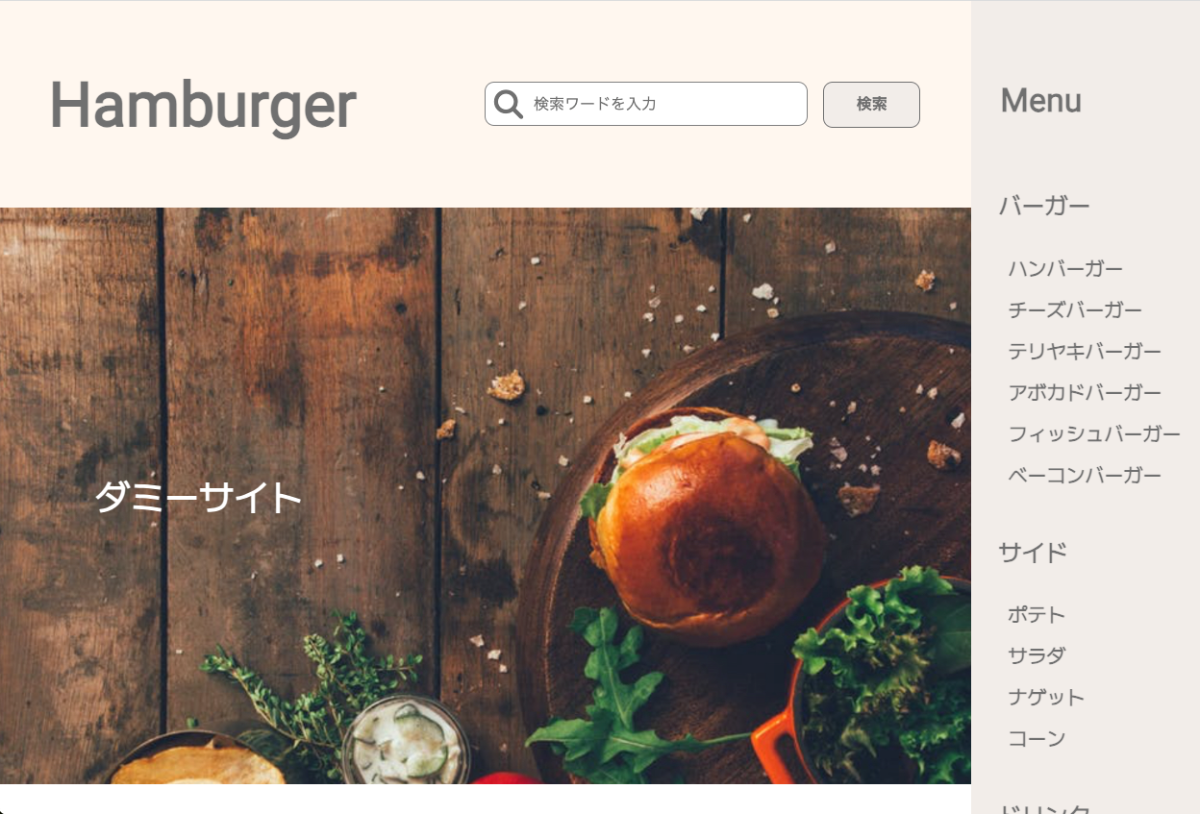
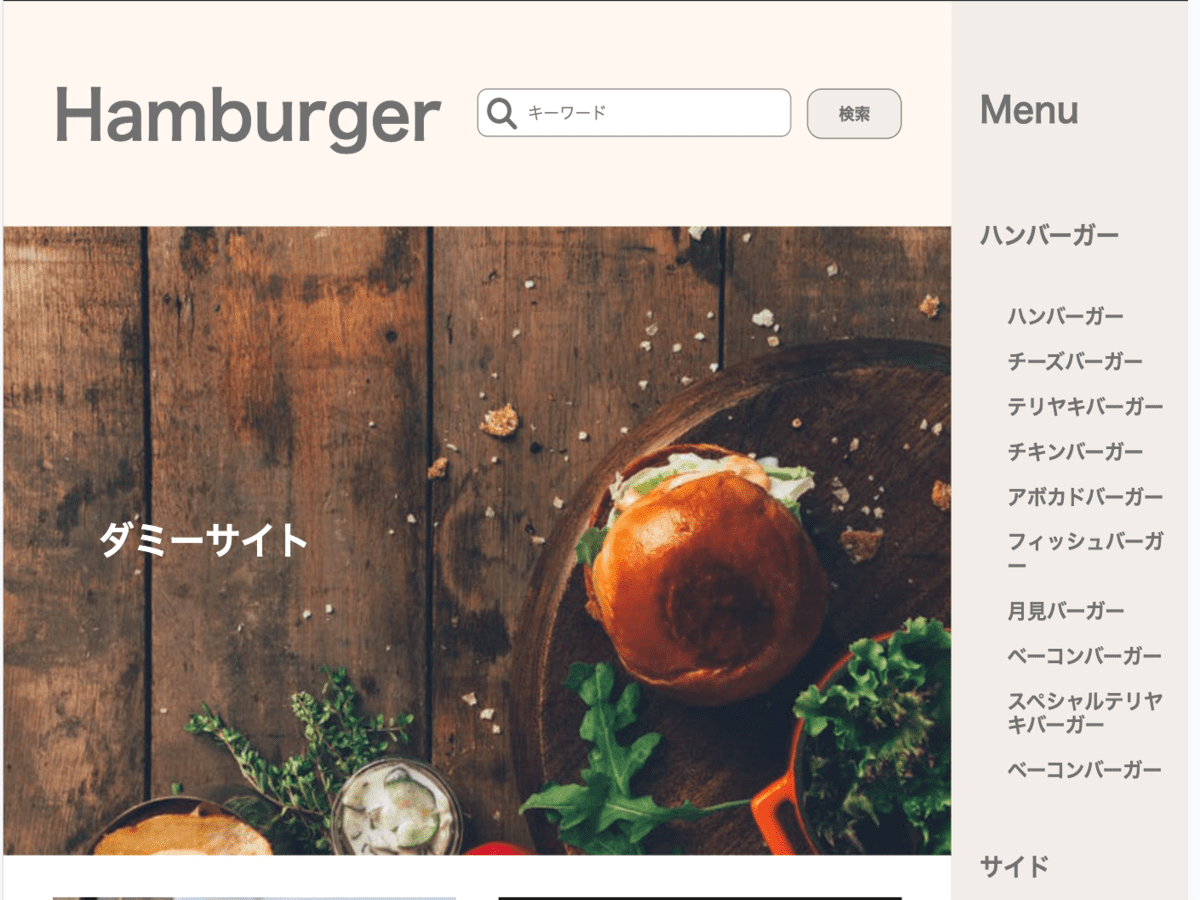
テーマチェック中

diff --git a/css/common.min.css b/css/common.min.css
@@ -1,2 +1,2 @@
-html{font-size:62.5%;height:100%}body{font-size:1.6rem;font-family:"M PLUS 1",sans-serif;font-family:"Roboto",sans-serif;color:#3c2a10;background-color:#fff;height:100%;position:relative}a{text-decoration:none;color:inherit}img{max-width:100%}li{list-style:none}.wrapper{margin:0 auto;padding:0 5.2%}.l-header{text-align:center;height:215px;background-color:#fff7ef;position:relative;color:#707070}@media(min-width: 1000px){.l-header{display:flex;justify-content:space-between;align-items:center}}.l-main{height:285px;display:flex;position:relative}@media(min-width: 1000px){.l-main{height:600px}}.l-main--visual{height:225px;position:relative}@media(min-width: 650px){.l-main--visual:has(.p-title-visual){height:500px}}.l-container,.l-container--front{padding-top:20px;padding-bottom:49px}@media(min-width: 650px){.l-container--front{padding-top:40px;display:flex;gap:5%}}.l-map{width:100%}.l-footer{height:150px;background-image:url(../img/layer1.jpg)}@media(min-width: 650px){.l-footer{height:170px}}.search-no-results{position:relative}.search-no-results .l-footer{position:absolute;bottom:0;width:100%}@media(min-width: 1000px){.search-no-results .l-footer{position:inherit}}.l-right-side{background-color:#f2ede9}@media(min-width: 1000px){.l-right-side{width:20%}}@media(min-width: 1000px){.l-left-side{width:80%}}.l-main-contents{display:block}@media(min-width: 1000px){.l-main-contents{display:flex;flex-direction:row-reverse}}.c-icon--loupe::before{content:"";font-size:3rem;font-family:"Font Awesome 5 Free";font-weight:900;font-style:normal;font-size:3rem}.c-menu{font-size:2rem;font-weight:bold;cursor:pointer;color:#707070}@media(min-width: 650px){.c-menu{font-size:3.4rem}}.c-menu--close{display:block;position:absolute;top:25px;right:25px;width:30px;height:30px;z-index:200}@media(min-width: 1000px){.c-menu--close{display:none}}.c-menu--close__bar{display:block;width:40px;height:4px;position:absolute;left:0;background:#707070}.c-menu--close__bar:nth-child(1){transform:rotate(45deg)}.c-menu--close__bar:nth-child(2){transform:rotate(-45deg)}.c-logo--header{font-size:4rem;font-weight:bold;padding-top:43px}@media(min-width: 1000px){.c-logo--header{font-size:6.4rem}}.c-main-font--front{font-size:3.6rem;font-weight:bold;color:#fff;font-family:"M PLUS 1",sans-serif;position:absolute;top:50%;transform:translateY(-50%)}@media(min-width: 650px){.c-main-font--front{padding:0 10%}}.c-main-font--archive-large{font-size:3.6rem;font-weight:bold;color:#fff;font-family:"Roboto",sans-serif}@media(min-width: 1000px){.c-main-font--archive-large{font-size:6rem}}.c-main-font--archive-small{font-size:1.6rem;font-family:"M PLUS 1",sans-serif;color:#fff}.c-main-font-visual{font-size:3.6rem;font-weight:bold;color:#fff;font-family:"Roboto",sans-serif}@media(min-width: 650px){.c-main-font-visual{font-size:6rem}}.l-main--visual>.c-main-font-visual{color:#3c2a10;position:absolute;top:50%;transform:translateY(-50%)}.wp-block-page-list{padding-top:16px;color:#fff;font-family:"M PLUS 1",sans-serif;font-size:1.8rem;text-align:center;display:flex;justify-content:center}.wp-block-page-list li+li::before{content:" ";border-left:2px solid #fff;padding-left:20px;margin-left:20px}@media(min-width: 650px){.wp-block-page-list{padding-top:30px}}.c-copyright{color:#fff;font-size:1.4rem;padding-top:70px;text-align:center}@media(min-width: 650px){.c-copyright{padding-bottom:20px}}.c-iphonepage-previous,.c-iphonepage-next{color:#707070;font-family:"M PLUS 1",sans-serif}@media(min-width: 650px){.c-iphonepage-previous,.c-iphonepage-next{display:none}}.wp-pagenavi .current,.wp-pagenavi .page{display:none}@media(min-width: 650px){.wp-pagenavi .current,.wp-pagenavi .page{display:block;border:solid 1px #707070;padding:8px 12.5px}}@media(min-width: 650px){.current{color:#fff;background-color:#3c2b1c}}.pages,.nextpostslink,.previouspostslink,.last,.first{display:none}@media(min-width: 650px){.pages,.nextpostslink,.previouspostslink,.last,.first{display:block;padding:8px 0;line-height:1.6rem}}.nextpostslink,.previouspostslink{font-size:2rem}.p-introduction h2.wp-block-heading{font-size:2.8rem;font-family:"M PLUS 1",sans-serif;font-weight:bold}@media(min-width: 650px){.p-introduction h2.wp-block-heading{font-size:3.6rem}}.c-title-font{font-size:2.8rem;font-family:"M PLUS 1",sans-serif;font-weight:bold}@media(min-width: 650px){.c-title-font{font-size:3.6rem}}.c-title-sub,h6.wp-block-heading,h5.wp-block-heading,h4.wp-block-heading,h3.wp-block-heading{font-weight:bold;font-family:"M PLUS 1",sans-serif}h3.wp-block-heading{font-size:2.4rem}@media(min-width: 650px){h3.wp-block-heading{font-size:2.8rem}}h4.wp-block-heading{font-size:2rem}@media(min-width: 650px){h4.wp-block-heading{font-size:2.4rem}}h5.wp-block-heading{font-size:2rem}@media(min-width: 650px){h5.wp-block-heading{font-size:2.4rem}}h6.wp-block-heading{font-size:2rem}@media(min-width: 650px){h6.wp-block-heading{font-size:2.4rem}}.c-button{display:inline-block;background-color:#f2ede9;border:solid 1px #707070;border-radius:15px}.c-button--archive,.more-link{display:block;text-align:center;margin:0 auto;width:163px;padding:15px 40px;background-color:#fff;border:#707070;border-radius:30px;color:#707070;cursor:pointer}@media(min-width: 1000px){.c-button--archive,.more-link{width:250px;padding:25px 40px;border-radius:40px}}.p-archive-menu__text p>a{display:block;text-align:center;margin:0 auto;width:163px;padding:15px 40px;margin-top:70px;background-color:#fff;border:#707070;border-radius:30px;color:#707070;cursor:pointer}@media(min-width: 1000px){.p-archive-menu__text p>a{width:250px;padding:25px 40px;border-radius:40px}}.wp-block-button__link{display:inline-block;background-color:#f2ede9;border:solid 1px #707070;border-radius:15px;color:#3c2a10;padding:30px;width:100%;height:80px;display:block;text-align:center;font-weight:bold}.wp-block-button{width:100%}@media(min-width: 650px){.wp-block-button{width:430px}}.c-button__home:hover{color:#707070}.wp-block-quote{margin:0 auto;padding:0 5.2%;background-color:#f5f5f5;padding-top:20px;padding-bottom:20px;font-size:1.6rem}@media(min-width: 650px){.wp-block-quote{padding-top:50px;padding-bottom:50px}}.wp-block-quote a{border-bottom:1px solid #4a6c9b;color:#4a6c9b}@media(min-width: 650px){.wp-block-quote p+p{padding-top:60px}}.c-image--wide{width:100%;height:124px;-o-object-fit:cover;object-fit:cover;-o-object-position:center bottom;object-position:center bottom}@media(min-width: 650px){.c-image--wide{height:265px}}@media(min-width: 1000px){.c-image--wide{height:500px}}.c-image--small{width:42%;-o-object-fit:contain;object-fit:contain}@media(min-width: 1000px){.c-image--small{width:45%}}.c-image--normal{display:block;margin:0 auto;width:80%;-o-object-fit:contain;object-fit:contain}@media(min-width: 1000px){.c-image--normal{width:43%}}.c-image--collection{width:100%;-o-object-fit:contain;object-fit:contain}.c-code,.wp-block-code{padding:50px;background-color:#f5f5f5;font-size:1.8rem;line-height:2.5rem}.c-table{border:1px solid #707070;border-collapse:collapse;font-size:1.6rem;width:100%}.c-table__td1,.wp-block-table td,.wp-block-table th{border:1px solid #707070;padding:30px 0 30px 30px;width:46%}@media(min-width: 650px){.c-table__td1,.wp-block-table td,.wp-block-table th{width:30%}}.c-table__td2{border:1px solid #707070;width:54%;padding:30px 0 30px 30px}@media(min-width: 650px){.c-table__td2{width:70%}}.c-bold{font-weight:bold}.p-search-box{display:flex;justify-content:center;margin-bottom:40px}@media(min-width: 1000px){.p-search-box{margin-bottom:0;width:50%}}.p-search-box .p-search-box__text{position:relative;margin-right:16px;width:57%}@media(min-width: 650px){.p-search-box .p-search-box__text{width:47%}}@media(min-width: 1000px){.p-search-box .p-search-box__text{width:100%}}.p-search-box .p-search-box__text .c-input-text{background-color:#fff;height:46px;border:solid 1px gray;border-radius:10px;text-align:left;padding-left:50px;width:100%}.p-search-box .p-search-box__text .c-icon--loupe::before{position:absolute;top:7px;left:10px}.p-search-box .c-button{width:24%;line-height:46px;font-weight:bold}@media(min-width: 650px){.p-search-box .c-button{width:16%}}@media(min-width: 1000px){.p-search-box .c-button{width:30%}}.p-main-visual{background-image:url(../img/main-visual.jpg);background-size:cover;background-position:center}@media(min-width: 1000px){.p-main-visual{background-image:url(../img/mainvisual-pc.jpg)}}.p-archive-visual{background-image:url(../img/archive-visual.jpg);background-size:cover;background-position:center}@media(min-width: 650px){.p-archive-visual{background-image:url(../img/archive-visual-pc.jpg)}}@media(min-width: 1000px){.p-archive-visual{height:200px}}.p-archive-visual__layer{width:100%;height:100%;background-color:rgba(0,0,0,.3)}.p-archive-visual__text{display:block;position:absolute;top:50%;transform:translateY(-50%)}@media(min-width: 650px){.p-archive-visual__text{padding:0 10%;display:flex;align-items:center;gap:20px}}.p-archive-visual__text .c-main-font--archive-large{padding-bottom:12px}@media(min-width: 650px){.p-archive-visual__text .c-main-font--archive-large{padding-bottom:0}}.p-archive-section--main{padding:12px 0}@media(min-width: 650px){.p-archive-section--main{padding-bottom:30px}}.p-archive-section--main .c-title-font{padding-bottom:25px}.p-archive-menu-main{display:flex;flex-direction:column;gap:25px}.p-archive-menu>a,.p-archive-menu--product1>a,.p-archive-menu--product2>a,.p-archive-menu--product3>a,.p-archive-menu--product4>a,.p-archive-menu--product5>a{display:block;width:100%}.p-archive-menu__image,.wp-post-image{display:block;width:100%;-o-object-fit:cover;object-fit:cover}@media(min-width: 650px){.p-archive-menu__image,.wp-post-image{height:100%}}.p-archive-menu__textbox,.p-archive-menu>.type-post,.p-archive-menu--product1>.type-post,.p-archive-menu--product2>.type-post,.p-archive-menu--product3>.type-post,.p-archive-menu--product4>.type-post,.p-archive-menu--product5>.type-post{background-color:#3c2b1c;color:#fff;padding:40px 5%}@media(min-width: 650px){.p-archive-menu__textbox,.p-archive-menu>.type-post,.p-archive-menu--product1>.type-post,.p-archive-menu--product2>.type-post,.p-archive-menu--product3>.type-post,.p-archive-menu--product4>.type-post,.p-archive-menu--product5>.type-post{flex-basis:50%;flex-shrink:0}}.p-archive-menu__title{font-size:2rem;font-family:"M PLUS 1",sans-serif;font-weight:bold;padding-bottom:20px}@media(min-width: 1000px){.p-archive-menu__title{font-size:3.6rem}}.p-archive-menu__sub-title,.p-archive-menu__text>h2{font-size:1.6rem;font-family:"M PLUS 1",sans-serif;font-weight:bold}@media(min-width: 1000px){.p-archive-menu__sub-title,.p-archive-menu__text>h2{font-size:2.4rem}}.p-archive-menu__text>p:first-of-type{padding-top:10px;padding-bottom:40px}@media(min-width: 1000px){.p-archive-menu__text>p:first-of-type{padding-top:15px}}.p-archive-menu,.p-archive-menu--product1,.p-archive-menu--product2,.p-archive-menu--product3,.p-archive-menu--product4,.p-archive-menu--product5{width:100%}@media(min-width: 650px){.p-archive-menu,.p-archive-menu--product1,.p-archive-menu--product2,.p-archive-menu--product3,.p-archive-menu--product4,.p-archive-menu--product5{display:flex;flex-direction:row}}.p-archive-menu+.p-archive-menu,.p-archive-menu--product1+.p-archive-menu,.p-archive-menu--product2+.p-archive-menu,.p-archive-menu--product3+.p-archive-menu,.p-archive-menu--product4+.p-archive-menu,.p-archive-menu--product5+.p-archive-menu,.p-archive-menu+.p-archive-menu--product1,.p-archive-menu--product1+.p-archive-menu--product1,.p-archive-menu--product2+.p-archive-menu--product1,.p-archive-menu--product3+.p-archive-menu--product1,.p-archive-menu--product4+.p-archive-menu--product1,.p-archive-menu--product5+.p-archive-menu--product1,.p-archive-menu+.p-archive-menu--product2,.p-archive-menu--product1+.p-archive-menu--product2,.p-archive-menu--product2+.p-archive-menu--product2,.p-archive-menu--product3+.p-archive-menu--product2,.p-archive-menu--product4+.p-archive-menu--product2,.p-archive-menu--product5+.p-archive-menu--product2,.p-archive-menu+.p-archive-menu--product3,.p-archive-menu--product1+.p-archive-menu--product3,.p-archive-menu--product2+.p-archive-menu--product3,.p-archive-menu--product3+.p-archive-menu--product3,.p-archive-menu--product4+.p-archive-menu--product3,.p-archive-menu--product5+.p-archive-menu--product3,.p-archive-menu+.p-archive-menu--product4,.p-archive-menu--product1+.p-archive-menu--product4,.p-archive-menu--product2+.p-archive-menu--product4,.p-archive-menu--product3+.p-archive-menu--product4,.p-archive-menu--product4+.p-archive-menu--product4,.p-archive-menu--product5+.p-archive-menu--product4,.p-archive-menu+.p-archive-menu--product5,.p-archive-menu--product1+.p-archive-menu--product5,.p-archive-menu--product2+.p-archive-menu--product5,.p-archive-menu--product3+.p-archive-menu--product5,.p-archive-menu--product4+.p-archive-menu--product5,.p-archive-menu--product5+.p-archive-menu--product5{margin-top:5%}.p-archive-menu>a,.p-archive-menu--product1>a,.p-archive-menu--product2>a,.p-archive-menu--product3>a,.p-archive-menu--product4>a,.p-archive-menu--product5>a{display:block}.p-section,.p-section--EatIn,.p-section--TakeOut{display:flex;flex-direction:column;justify-content:space-between;background-size:cover}.p-section--TakeOut{background-image:url(../img/TakeOut.jpg);margin-bottom:15px}@media(min-width: 650px){.p-section--TakeOut{margin-bottom:0;width:50%}}.p-section--EatIn{background-image:url(../img/EatIn.jpg)}@media(min-width: 650px){.p-section--EatIn{width:50%}}.p-section__title-font{font-size:4rem;font-weight:bold;padding:15px;color:#fafafa}@media(min-width: 650px){.p-section__title-font{font-size:4.4rem}}@media(min-width: 1000px){.p-section__title-font{font-size:8rem}}.p-section__border{content:" ";width:34px;height:4px;background-color:#fff;margin-left:15px}.p-section__sub-font{color:#3c2a10;font-size:2.2rem;font-weight:bold;padding:15px 15px 0 15px}.p-section__text-font{color:#3c2a10;font-size:1.6rem;padding:15px}.p-section__box{display:flex;flex-direction:column;gap:15px;padding-top:200px;padding-bottom:5%}@media(min-width: 650px){.p-section__box{padding-top:250px}}@media(min-width: 1000px){.p-section__box{padding-top:660px}}.p-section__box1,.p-section__box2{background-color:rgba(255,255,255,.8);width:90%;margin:0 auto}.p-map{background-image:url(../img/map-screenshot.jpg);background-size:cover;position:relative}.p-map .p-map__layer{width:100%;height:100%;background-color:rgba(0,0,0,.3)}.p-map .p-map__layer__black{position:absolute;width:100%;height:63%;background-color:rgba(0,0,0,.2);z-index:3}@media(min-width: 650px){.p-map .p-map__layer__black{height:100%}}@media(min-width: 1000px){.p-map .p-map__layer__black{width:63%;height:100%}}.p-map__text-box{position:relative;z-index:10;padding:42px 8%}@media(min-width: 1000px){.p-map__text-box{width:63%}}.p-map__text-box .p-map__border{width:75px;height:2px;background-color:#fff}.p-map__text-box .p-map__title-font{font-size:3rem;font-weight:bold;color:#fff;font-family:"M PLUS 1",sans-serif;padding-bottom:20px}.p-map__text-box .p-map__text-font{font-size:1.4rem;color:#fff;font-family:"M PLUS 1",sans-serif;font-weight:bold;padding-top:20px;line-height:30px}.p-foodmenu-title--sp{position:absolute;top:2.2%;right:2.2%}@media(min-width: 1000px){.p-foodmenu-title--sp{display:none}}.p-foodmenu-title--pc{display:none}@media(min-width: 1000px){.p-foodmenu-title--pc{display:block;position:relative;padding-left:12%;padding-top:84px}}.p-foodmenu{width:87%}@media(min-width: 650px){.p-foodmenu{width:44%}}.p-foodmenu>.menu-food-menu-container{padding-top:100px;padding-left:12%;margin-bottom:160px}@media(min-width: 1000px){.p-foodmenu>.menu-food-menu-container{margin-bottom:0;padding-top:30px}}.p-foodmenu__list1,.menu-item-has-children{display:block;font-size:2.4rem;font-family:"M PLUS 1",sans-serif;font-weight:bold;color:#707070;padding-top:60px;padding-bottom:40px}@media(min-width: 1000px){.p-foodmenu__list1,.menu-item-has-children{padding-top:45px;padding-bottom:0}}.p-foodmenu__list2,.sub-menu>.menu-item{display:block;font-size:2rem;font-family:"M PLUS 1",sans-serif;color:#707070;padding:10px}.p-foodmenu__list2:first-child,.sub-menu>.menu-item:first-child{margin-top:40px}@media(min-width: 1000px){.p-foodmenu__list2:first-child,.sub-menu>.menu-item:first-child{margin-top:30px}}.menu-item-has-children:last-of-type>.sub-menu{margin-bottom:100px}.p-pagenavi,.wp-pagenavi{display:flex;justify-content:space-between;padding-bottom:20px}@media(min-width: 650px){.p-pagenavi,.wp-pagenavi{justify-content:center;gap:2%}}.wp-pagenavi a:hover{color:#fff;background-color:#999;border-color:#999}.p-title-visual{position:relative}@media(min-width: 650px){.p-title-visual{height:500px}}.p-title-visual .c-main-font-visual{position:absolute;top:50%;transform:translateY(-50%)}@media(min-width: 650px){.p-title-visual+p-introduction{margin-top:500px}}.p-introduction{padding-bottom:30px}.p-introduction .c-title-font{padding-bottom:25px}@media(min-width: 650px){.p-introduction .c-title-font{font-size:3.6rem;padding-bottom:55px;padding-top:40px}}@media(min-width: 650px){.p-introduction .type-post .wp-block-heading:first-child{padding-top:40px}}.p-introduction--product{padding-bottom:30px}.p-introduction--product .c-image--normal{padding-top:30px}.p-introduction__product,.p-introduction__product2,.p-introduction__product1{display:flex;padding-top:30px;align-items:flex-start;gap:3%}.p-introduction__product2{flex-direction:row-reverse}.p-introduction--collection,.wp-block-gallery{display:grid;gap:20px;grid-template-columns:repeat(auto-fit, minmax(250px, 1fr))}@media(min-width: 650px){.p-introduction--collection,.wp-block-gallery{margin-top:240px}}@media(min-width: 1000px){.p-introduction--collection,.wp-block-gallery{margin-top:0}}.p-list{padding-top:30px;padding-bottom:30px}@media(min-width: 650px){.p-list{padding-top:60px;padding-bottom:60px;padding-left:7%}}.p-list__list2{padding-top:60px}ol{counter-reset:count 0}ol>li:before{content:counter(count) ". ";counter-increment:count 1}li>ol,li>ul{padding:12px 0 12px 18px}ul,ol{padding:12px 0}.p-page-visual{background-image:url(../img/black-steel-lamp-post.jpg);background-size:cover;background-position:center;position:relative}@media(min-width: 650px){.p-page-visual{background-image:url(../img/black-steel-lamp-post-tab.jpg);height:500px}}@media(min-width: 1000px){.p-page-visual{background-image:url(../img/black-steel-lamp-post-pc.jpg)}}.p-page-visual .c-main-font-visual{position:absolute;top:50%;transform:translateY(-50%)}.u-mb,.wp-block-heading,.wp-block-quote,.wp-block-code,.wp-block-button__link{margin-bottom:30px}@media(min-width: 650px){.u-mb,.wp-block-heading,.wp-block-quote,.wp-block-code,.wp-block-button__link{margin-bottom:50px}}.p-introduction p{margin-bottom:30px}@media(min-width: 650px){.p-introduction p+.wp-block-heading{padding-top:30px}}.u-mb-small{margin-bottom:20px}.u-mb-large,.wp-block-table{margin-bottom:40px}.wp-block-image{padding-bottom:10px}@media(min-width: 650px){.wp-block-image{padding-bottom:30px}}.js-foodmenu--background{visibility:hidden;position:fixed;z-index:50;top:0;right:0;width:100%;height:100%;-webkit-animation-duration:.5s;animation-duration:.5s;-webkit-animation-name:fade-out;animation-name:fade-out}@-webkit-keyframes fade-out{0%{visibility:visible;opacity:1}50%{visibility:visible;opacity:.5}100%{visibility:hidden;opacity:0}}@keyframes fade-out{0%{visibility:visible;opacity:1}50%{visibility:visible;opacity:.5}100%{visibility:hidden;opacity:0}}.js-foodmenu--background.is-open{visibility:visible;-webkit-animation-duration:.5s;animation-duration:.5s;-webkit-animation-name:fade-in;animation-name:fade-in;background-color:rgba(0,0,0,.5)}@-webkit-keyframes fade-in{0%{visibility:hidden;opacity:0}50%{visibility:visible;opacity:.5}100%{visibility:visible;opacity:1}}@keyframes fade-in{0%{visibility:hidden;opacity:0}50%{visibility:visible;opacity:.5}100%{visibility:visible;opacity:1}}.js-foodmenu{position:fixed;height:100%;overflow-y:scroll;z-index:100;top:0;right:-100%;transition:ease .5s;background-color:#f2ede9}@media(min-width: 1000px){.js-foodmenu{position:inherit;width:100%;height:auto}}.js-foodmenu.is-open{right:0}:is(.home,.archive,.page,.single).is-open{height:100%;overflow:hidden}
+html{font-size:62.5%;height:100%}body{font-size:1.6rem;font-family:"M PLUS 1",sans-serif;font-family:"Roboto",sans-serif;color:#3c2a10;background-color:#fff;height:100%;position:relative}a{text-decoration:none;color:inherit}img{max-width:100%}li{list-style:none}.wrapper{margin:0 auto;padding:0 5.2%}.l-header{text-align:center;height:215px;background-color:#fff7ef;position:relative;color:#707070}@media(min-width: 1000px){.l-header{display:flex;justify-content:space-between;align-items:center}}.l-main{height:285px;display:flex;position:relative}@media(min-width: 1000px){.l-main{height:600px}}.l-main--visual{height:225px;position:relative}@media(min-width: 650px){.l-main--visual:has(.p-title-visual){height:500px}}.l-container,.l-container--front{padding-top:20px;padding-bottom:49px}@media(min-width: 650px){.l-container--front{padding-top:40px;display:flex;gap:5%}}.l-map{width:100%}.l-footer{height:150px;background-image:url(../img/layer1.jpg)}@media(min-width: 650px){.l-footer{height:170px}}.search-no-results{position:relative}.search-no-results .l-footer{position:absolute;bottom:0;width:100%}@media(min-width: 1000px){.search-no-results .l-footer{position:inherit}}.l-right-side{background-color:#f2ede9}@media(min-width: 1000px){.l-right-side{width:20%}}@media(min-width: 1000px){.l-left-side{width:80%}}.l-main-contents{display:block}@media(min-width: 1000px){.l-main-contents{display:flex;flex-direction:row-reverse}}.c-icon--loupe::before{content:"";font-size:3rem;font-family:"Font Awesome 5 Free";font-weight:900;font-style:normal;font-size:3rem}.c-menu{font-size:2rem;font-weight:bold;cursor:pointer;color:#707070}@media(min-width: 650px){.c-menu{font-size:3.4rem}}.c-menu--close{display:block;position:absolute;top:25px;right:25px;width:30px;height:30px;z-index:200}@media(min-width: 1000px){.c-menu--close{display:none}}.c-menu--close__bar{display:block;width:40px;height:4px;position:absolute;left:0;background:#707070}.c-menu--close__bar:nth-child(1){transform:rotate(45deg)}.c-menu--close__bar:nth-child(2){transform:rotate(-45deg)}.c-logo--header{font-size:4rem;font-weight:bold;padding-top:43px}@media(min-width: 1000px){.c-logo--header{font-size:6.4rem}}.c-main-font--front{font-size:3.6rem;font-weight:bold;color:#fff;font-family:"M PLUS 1",sans-serif;position:absolute;top:50%;transform:translateY(-50%)}@media(min-width: 650px){.c-main-font--front{padding:0 10%}}.c-main-font--archive-large{font-size:3.6rem;font-weight:bold;color:#fff;font-family:"Roboto",sans-serif}@media(min-width: 1000px){.c-main-font--archive-large{font-size:6rem}}.c-main-font--archive-small{font-size:1.6rem;font-family:"M PLUS 1",sans-serif;color:#fff}.c-main-font-visual{font-size:3.6rem;font-weight:bold;color:#fff;font-family:"Roboto",sans-serif}@media(min-width: 650px){.c-main-font-visual{font-size:6rem}}.l-main--visual>.c-main-font-visual{color:#3c2a10;position:absolute;top:50%;transform:translateY(-50%)}.wp-block-page-list{padding-top:16px;color:#fff;font-family:"M PLUS 1",sans-serif;font-size:1.8rem;text-align:center;display:flex;justify-content:center}.wp-block-page-list li+li::before{content:" ";border-left:2px solid #fff;padding-left:20px;margin-left:20px}@media(min-width: 650px){.wp-block-page-list{padding-top:30px}}.c-copyright{color:#fff;font-size:1.4rem;padding-top:70px;text-align:center}@media(min-width: 650px){.c-copyright{padding-bottom:20px}}.c-iphonepage-previous,.c-iphonepage-next{color:#707070;font-family:"M PLUS 1",sans-serif}@media(min-width: 650px){.c-iphonepage-previous,.c-iphonepage-next{display:none}}.wp-pagenavi .current,.wp-pagenavi .page{display:none}@media(min-width: 650px){.wp-pagenavi .current,.wp-pagenavi .page{display:block;border:solid 1px #707070;padding:8px 12.5px}}@media(min-width: 650px){.current{color:#fff;background-color:#3c2b1c}}.pages,.nextpostslink,.previouspostslink,.last,.first{display:none}@media(min-width: 650px){.pages,.nextpostslink,.previouspostslink,.last,.first{display:block;padding:8px 0;line-height:1.6rem}}.nextpostslink,.previouspostslink{font-size:2rem}.post-pages{text-align:center;padding:20px}.post-page-numbers{padding:5px 7px}.post-page-numbers.current{color:#fff;background-color:#3c2b1c}.p-introduction h2.wp-block-heading{font-size:2.8rem;font-family:"M PLUS 1",sans-serif;font-weight:bold}@media(min-width: 650px){.p-introduction h2.wp-block-heading{font-size:3.6rem}}.c-title-font{font-size:2.8rem;font-family:"M PLUS 1",sans-serif;font-weight:bold}@media(min-width: 650px){.c-title-font{font-size:3.6rem}}.c-title-sub,h6.wp-block-heading,h5.wp-block-heading,h4.wp-block-heading,h3.wp-block-heading{font-weight:bold;font-family:"M PLUS 1",sans-serif}h3.wp-block-heading{font-size:2.4rem}@media(min-width: 650px){h3.wp-block-heading{font-size:2.8rem}}h4.wp-block-heading{font-size:2rem}@media(min-width: 650px){h4.wp-block-heading{font-size:2.4rem}}h5.wp-block-heading{font-size:2rem}@media(min-width: 650px){h5.wp-block-heading{font-size:2.4rem}}h6.wp-block-heading{font-size:2rem}@media(min-width: 650px){h6.wp-block-heading{font-size:2.4rem}}.c-button{display:inline-block;background-color:#f2ede9;border:solid 1px #707070;border-radius:15px}.c-button--archive,.more-link{display:block;text-align:center;margin:0 auto;width:163px;padding:15px 40px;background-color:#fff;border:#707070;border-radius:30px;color:#707070;cursor:pointer}@media(min-width: 1000px){.c-button--archive,.more-link{width:250px;padding:25px 40px;border-radius:40px}}.p-archive-menu__text p>a{display:block;text-align:center;margin:0 auto;width:163px;padding:15px 40px;margin-top:70px;background-color:#fff;border:#707070;border-radius:30px;color:#707070;cursor:pointer}@media(min-width: 1000px){.p-archive-menu__text p>a{width:250px;padding:25px 40px;border-radius:40px}}.wp-block-button__link{display:inline-block;background-color:#f2ede9;border:solid 1px #707070;border-radius:15px;color:#3c2a10;padding:30px;width:100%;height:80px;display:block;text-align:center;font-weight:bold}.wp-block-button{width:100%}@media(min-width: 650px){.wp-block-button{width:430px}}.c-button__home:hover{color:#707070}.wp-block-quote{margin:0 auto;padding:0 5.2%;background-color:#f5f5f5;padding-top:20px;padding-bottom:20px;font-size:1.6rem}@media(min-width: 650px){.wp-block-quote{padding-top:50px;padding-bottom:50px}}.wp-block-quote a{border-bottom:1px solid #4a6c9b;color:#4a6c9b}@media(min-width: 650px){.wp-block-quote p+p{padding-top:60px}}.c-image--wide{width:100%;height:124px;-o-object-fit:cover;object-fit:cover;-o-object-position:center bottom;object-position:center bottom}@media(min-width: 650px){.c-image--wide{height:265px}}@media(min-width: 1000px){.c-image--wide{height:500px}}.c-image--small{width:42%;-o-object-fit:contain;object-fit:contain}@media(min-width: 1000px){.c-image--small{width:45%}}.c-image--normal{display:block;margin:0 auto;width:80%;-o-object-fit:contain;object-fit:contain}@media(min-width: 1000px){.c-image--normal{width:43%}}.c-image--collection{width:100%;-o-object-fit:contain;object-fit:contain}.c-code,.wp-block-code{padding:50px;background-color:#f5f5f5;font-size:1.8rem;line-height:2.5rem}.c-table{border:1px solid #707070;border-collapse:collapse;font-size:1.6rem;width:100%}.c-table__td1,.wp-block-table td,.wp-block-table th{border:1px solid #707070;padding:30px 0 30px 30px;width:46%}@media(min-width: 650px){.c-table__td1,.wp-block-table td,.wp-block-table th{width:30%}}.c-table__td2{border:1px solid #707070;width:54%;padding:30px 0 30px 30px}@media(min-width: 650px){.c-table__td2{width:70%}}.c-bold{font-weight:bold}.p-search-box{display:flex;justify-content:center;margin-bottom:40px}@media(min-width: 1000px){.p-search-box{margin-bottom:0;width:50%}}.p-search-box .p-search-box__text{position:relative;margin-right:16px;width:57%}@media(min-width: 650px){.p-search-box .p-search-box__text{width:47%}}@media(min-width: 1000px){.p-search-box .p-search-box__text{width:100%}}.p-search-box .p-search-box__text .c-input-text{background-color:#fff;height:46px;border:solid 1px gray;border-radius:10px;text-align:left;padding-left:50px;width:100%}.p-search-box .p-search-box__text .c-icon--loupe::before{position:absolute;top:7px;left:10px}.p-search-box .c-button{width:24%;line-height:46px;font-weight:bold}@media(min-width: 650px){.p-search-box .c-button{width:16%}}@media(min-width: 1000px){.p-search-box .c-button{width:30%}}.p-main-visual{background-image:url(../img/main-visual.jpg);background-size:cover;background-position:center}@media(min-width: 1000px){.p-main-visual{background-image:url(../img/mainvisual-pc.jpg)}}.p-archive-visual{background-image:url(../img/archive-visual.jpg);background-size:cover;background-position:center}@media(min-width: 650px){.p-archive-visual{background-image:url(../img/archive-visual-pc.jpg)}}@media(min-width: 1000px){.p-archive-visual{height:200px}}.p-archive-visual__layer{width:100%;height:100%;background-color:rgba(0,0,0,.3)}.p-archive-visual__text{display:block;position:absolute;top:50%;transform:translateY(-50%)}@media(min-width: 650px){.p-archive-visual__text{padding:0 10%;display:flex;align-items:center;gap:20px}}.p-archive-visual__text .c-main-font--archive-large{padding-bottom:12px}@media(min-width: 650px){.p-archive-visual__text .c-main-font--archive-large{padding-bottom:0}}.p-archive-section--main{padding:12px 0}@media(min-width: 650px){.p-archive-section--main{padding-bottom:30px}}.p-archive-section--main .c-title-font{padding-bottom:25px}.p-archive-menu-main{display:flex;flex-direction:column;gap:25px}.p-archive-menu>a,.p-archive-menu--product1>a,.p-archive-menu--product2>a,.p-archive-menu--product3>a,.p-archive-menu--product4>a,.p-archive-menu--product5>a{display:block;width:100%}.p-archive-menu__image,.wp-post-image{display:block;width:100%;-o-object-fit:cover;object-fit:cover}@media(min-width: 650px){.p-archive-menu__image,.wp-post-image{height:100%}}.p-archive-menu__textbox,.p-archive-menu>.type-post,.p-archive-menu--product1>.type-post,.p-archive-menu--product2>.type-post,.p-archive-menu--product3>.type-post,.p-archive-menu--product4>.type-post,.p-archive-menu--product5>.type-post{background-color:#3c2b1c;color:#fff;padding:40px 5%}@media(min-width: 650px){.p-archive-menu__textbox,.p-archive-menu>.type-post,.p-archive-menu--product1>.type-post,.p-archive-menu--product2>.type-post,.p-archive-menu--product3>.type-post,.p-archive-menu--product4>.type-post,.p-archive-menu--product5>.type-post{flex-basis:50%;flex-shrink:0}}.p-archive-menu__title{font-size:2rem;font-family:"M PLUS 1",sans-serif;font-weight:bold;padding-bottom:20px}@media(min-width: 1000px){.p-archive-menu__title{font-size:3.6rem}}.p-archive-menu__sub-title,.p-archive-menu__text>h2{font-size:1.6rem;font-family:"M PLUS 1",sans-serif;font-weight:bold}@media(min-width: 1000px){.p-archive-menu__sub-title,.p-archive-menu__text>h2{font-size:2.4rem}}.p-archive-menu__text>p:first-of-type{padding-top:10px;padding-bottom:40px}@media(min-width: 1000px){.p-archive-menu__text>p:first-of-type{padding-top:15px}}.p-archive-menu,.p-archive-menu--product1,.p-archive-menu--product2,.p-archive-menu--product3,.p-archive-menu--product4,.p-archive-menu--product5{width:100%}@media(min-width: 650px){.p-archive-menu,.p-archive-menu--product1,.p-archive-menu--product2,.p-archive-menu--product3,.p-archive-menu--product4,.p-archive-menu--product5{display:flex;flex-direction:row}}.p-archive-menu+.p-archive-menu,.p-archive-menu--product1+.p-archive-menu,.p-archive-menu--product2+.p-archive-menu,.p-archive-menu--product3+.p-archive-menu,.p-archive-menu--product4+.p-archive-menu,.p-archive-menu--product5+.p-archive-menu,.p-archive-menu+.p-archive-menu--product1,.p-archive-menu--product1+.p-archive-menu--product1,.p-archive-menu--product2+.p-archive-menu--product1,.p-archive-menu--product3+.p-archive-menu--product1,.p-archive-menu--product4+.p-archive-menu--product1,.p-archive-menu--product5+.p-archive-menu--product1,.p-archive-menu+.p-archive-menu--product2,.p-archive-menu--product1+.p-archive-menu--product2,.p-archive-menu--product2+.p-archive-menu--product2,.p-archive-menu--product3+.p-archive-menu--product2,.p-archive-menu--product4+.p-archive-menu--product2,.p-archive-menu--product5+.p-archive-menu--product2,.p-archive-menu+.p-archive-menu--product3,.p-archive-menu--product1+.p-archive-menu--product3,.p-archive-menu--product2+.p-archive-menu--product3,.p-archive-menu--product3+.p-archive-menu--product3,.p-archive-menu--product4+.p-archive-menu--product3,.p-archive-menu--product5+.p-archive-menu--product3,.p-archive-menu+.p-archive-menu--product4,.p-archive-menu--product1+.p-archive-menu--product4,.p-archive-menu--product2+.p-archive-menu--product4,.p-archive-menu--product3+.p-archive-menu--product4,.p-archive-menu--product4+.p-archive-menu--product4,.p-archive-menu--product5+.p-archive-menu--product4,.p-archive-menu+.p-archive-menu--product5,.p-archive-menu--product1+.p-archive-menu--product5,.p-archive-menu--product2+.p-archive-menu--product5,.p-archive-menu--product3+.p-archive-menu--product5,.p-archive-menu--product4+.p-archive-menu--product5,.p-archive-menu--product5+.p-archive-menu--product5{margin-top:5%}.p-archive-menu>a,.p-archive-menu--product1>a,.p-archive-menu--product2>a,.p-archive-menu--product3>a,.p-archive-menu--product4>a,.p-archive-menu--product5>a{display:block}.p-section,.p-section--EatIn,.p-section--TakeOut{display:flex;flex-direction:column;justify-content:space-between;background-size:cover}.p-section--TakeOut{background-image:url(../img/TakeOut.jpg);margin-bottom:15px}@media(min-width: 650px){.p-section--TakeOut{margin-bottom:0;width:50%}}.p-section--EatIn{background-image:url(../img/EatIn.jpg)}@media(min-width: 650px){.p-section--EatIn{width:50%}}.p-section__title-font{font-size:4rem;font-weight:bold;padding:15px;color:#fafafa}@media(min-width: 650px){.p-section__title-font{font-size:4.4rem}}@media(min-width: 1000px){.p-section__title-font{font-size:8rem}}.p-section__border{content:" ";width:34px;height:4px;background-color:#fff;margin-left:15px}.p-section__sub-font{color:#3c2a10;font-size:2.2rem;font-weight:bold;padding:15px 15px 0 15px}.p-section__text-font{color:#3c2a10;font-size:1.6rem;padding:15px}.p-section__box{display:flex;flex-direction:column;gap:15px;padding-top:200px;padding-bottom:5%}@media(min-width: 650px){.p-section__box{padding-top:250px}}@media(min-width: 1000px){.p-section__box{padding-top:660px}}.p-section__box1,.p-section__box2{background-color:rgba(255,255,255,.8);width:90%;margin:0 auto}.p-map{background-image:url(../img/map-screenshot.jpg);background-size:cover;position:relative}.p-map .p-map__layer{width:100%;height:100%;background-color:rgba(0,0,0,.3)}.p-map .p-map__layer__black{position:absolute;width:100%;height:63%;background-color:rgba(0,0,0,.2);z-index:3}@media(min-width: 650px){.p-map .p-map__layer__black{height:100%}}@media(min-width: 1000px){.p-map .p-map__layer__black{width:63%;height:100%}}.p-map__text-box{position:relative;z-index:10;padding:42px 8%}@media(min-width: 1000px){.p-map__text-box{width:63%}}.p-map__text-box .p-map__border{width:75px;height:2px;background-color:#fff}.p-map__text-box .p-map__title-font{font-size:3rem;font-weight:bold;color:#fff;font-family:"M PLUS 1",sans-serif;padding-bottom:20px}.p-map__text-box .p-map__text-font{font-size:1.4rem;color:#fff;font-family:"M PLUS 1",sans-serif;font-weight:bold;padding-top:20px;line-height:30px}.p-foodmenu-title--sp{position:absolute;top:2.2%;right:2.2%}@media(min-width: 1000px){.p-foodmenu-title--sp{display:none}}.p-foodmenu-title--pc{display:none}@media(min-width: 1000px){.p-foodmenu-title--pc{display:block;position:relative;padding-left:12%;padding-top:84px}}.p-foodmenu{width:87%}@media(min-width: 650px){.p-foodmenu{width:44%}}.p-foodmenu>.menu-food-menu-container{padding-top:100px;padding-left:12%;margin-bottom:160px}@media(min-width: 1000px){.p-foodmenu>.menu-food-menu-container{margin-bottom:0;padding-top:30px}}.p-foodmenu__list1,.menu-item-has-children{display:block;font-size:2.4rem;font-family:"M PLUS 1",sans-serif;font-weight:bold;color:#707070;padding-top:60px;padding-bottom:40px}@media(min-width: 1000px){.p-foodmenu__list1,.menu-item-has-children{padding-top:45px;padding-bottom:0}}.p-foodmenu__list2,.sub-menu>.menu-item{display:block;font-size:2rem;font-family:"M PLUS 1",sans-serif;color:#707070;padding:10px}.p-foodmenu__list2:first-child,.sub-menu>.menu-item:first-child{margin-top:40px}@media(min-width: 1000px){.p-foodmenu__list2:first-child,.sub-menu>.menu-item:first-child{margin-top:30px}}.menu-item-has-children:last-of-type>.sub-menu{margin-bottom:100px}.p-pagenavi,.wp-pagenavi{display:flex;justify-content:space-between;padding-bottom:20px}@media(min-width: 650px){.p-pagenavi,.wp-pagenavi{justify-content:center;gap:2%}}.wp-pagenavi a:hover{color:#fff;background-color:#999;border-color:#999}.p-title-visual{position:relative}@media(min-width: 650px){.p-title-visual{height:500px}}.p-title-visual .c-main-font-visual{position:absolute;top:50%;transform:translateY(-50%)}@media(min-width: 650px){.p-title-visual+p-introduction{margin-top:500px}}.p-introduction{padding-bottom:30px}.p-introduction .c-title-font{padding-bottom:25px}@media(min-width: 650px){.p-introduction .c-title-font{font-size:3.6rem;padding-bottom:55px;padding-top:40px}}@media(min-width: 650px){.p-introduction .type-post .wp-block-heading:first-child{padding-top:40px}}.p-introduction--product{padding-bottom:30px}.p-introduction--product .c-image--normal{padding-top:30px}.p-introduction__product,.p-introduction__product2,.p-introduction__product1{display:flex;padding-top:30px;align-items:flex-start;gap:3%}.p-introduction__product2{flex-direction:row-reverse}.p-introduction--collection,.wp-block-gallery{display:grid;gap:20px;grid-template-columns:repeat(auto-fit, minmax(250px, 1fr))}@media(min-width: 650px){.p-introduction--collection,.wp-block-gallery{margin-top:240px}}@media(min-width: 1000px){.p-introduction--collection,.wp-block-gallery{margin-top:0}}.p-list{padding-top:30px;padding-bottom:30px}@media(min-width: 650px){.p-list{padding-top:60px;padding-bottom:60px;padding-left:7%}}.p-list__list2{padding-top:60px}ol{counter-reset:count 0}ol>li:before{content:counter(count) ". ";counter-increment:count 1}li>ol,li>ul{padding:12px 0 12px 18px}ul,ol{padding:12px 0}.p-page-visual{background-image:url(../img/black-steel-lamp-post.jpg);background-size:cover;background-position:center;position:relative}@media(min-width: 650px){.p-page-visual{background-image:url(../img/black-steel-lamp-post-tab.jpg);height:500px}}@media(min-width: 1000px){.p-page-visual{background-image:url(../img/black-steel-lamp-post-pc.jpg)}}.p-page-visual .c-main-font-visual{position:absolute;top:50%;transform:translateY(-50%)}.u-mb,.wp-block-heading,.wp-block-quote,.wp-block-code,.wp-block-button__link{margin-bottom:30px}@media(min-width: 650px){.u-mb,.wp-block-heading,.wp-block-quote,.wp-block-code,.wp-block-button__link{margin-bottom:50px}}.p-introduction p{margin-bottom:30px}@media(min-width: 650px){.p-introduction p+.wp-block-heading{padding-top:30px}}.u-mb-small{margin-bottom:20px}.u-mb-large,.wp-block-table{margin-bottom:40px}.wp-block-image{padding-bottom:10px}@media(min-width: 650px){.wp-block-image{padding-bottom:30px}}.js-foodmenu--background{visibility:hidden;position:fixed;z-index:50;top:0;right:0;width:100%;height:100%;-webkit-animation-duration:.5s;animation-duration:.5s;-webkit-animation-name:fade-out;animation-name:fade-out}@-webkit-keyframes fade-out{0%{visibility:visible;opacity:1}50%{visibility:visible;opacity:.5}100%{visibility:hidden;opacity:0}}@keyframes fade-out{0%{visibility:visible;opacity:1}50%{visibility:visible;opacity:.5}100%{visibility:hidden;opacity:0}}.js-foodmenu--background.is-open{visibility:visible;-webkit-animation-duration:.5s;animation-duration:.5s;-webkit-animation-name:fade-in;animation-name:fade-in;background-color:rgba(0,0,0,.5)}@-webkit-keyframes fade-in{0%{visibility:hidden;opacity:0}50%{visibility:visible;opacity:.5}100%{visibility:visible;opacity:1}}@keyframes fade-in{0%{visibility:hidden;opacity:0}50%{visibility:visible;opacity:.5}100%{visibility:visible;opacity:1}}.js-foodmenu{position:fixed;height:100%;overflow-y:scroll;z-index:100;top:0;right:-100%;transition:ease .5s;background-color:#f2ede9}@media(min-width: 1000px){.js-foodmenu{position:inherit;width:100%;height:auto}}.js-foodmenu.is-open{right:0}:is(.home,.archive,.page,.single).is-open{height:100%;overflow:hidden}
 /*# sourceMappingURL=common.min.css.map */

diff --git a/style.css b/style.css
@@ -2,11 +2,15 @@
 Theme Name: wp-HamburgerSite
 Description: 最終課題用テーマ
 Version: 1.0.0
-Theme URI:  //テーマのURL
+Theme URI: https://github.com/kahodayoon/wp-HamburgerSite.git
 Author: Kaho
-Author URI:  //作った人の URL
-Tags: right-sidebar, blog //テーマのタイプ
+Author URI: https://wp.kaho.com
+Tags: right-sidebar, blog 
 License: GNU General Public License v3.0
 License URI: http://www.gnu.org/licenses/gpl-3.0.html
-Text Domain: HamburgerSite //テキストドメイン
+Text Domain: wp-HamburgerSite
+Tested up to: 6.4
+Requires PHP: 8.1
+wp-hamburgersite WordPress Theme, (C) 2020 WordPress.org
+wp-hamburgersite is distributed under the terms of the GNU GPL.
 */

diff --git a/scss/object/component/_c-tabletpage.scss b/scss/object/component/_c-tabletpage.scss
@@ -19,7 +19,7 @@
 //   }
 // }
 // .c-tabletpage-number--first,
-.current {
+.current{
   @include tab {
     color: #ffffff;
     background-color: #3c2b1c;
@@ -46,11 +46,16 @@
 .previouspostslink {
   font-size: 2rem;
 }
-// .c-tabletpage-arrow--next {
-//   @include pc {
-//     display: none;
-//   }
-// }
-// .c-tabletpage-text {
-//   padding-right: 5px;
-// }
+
+//シングルページの投稿が長い時のページ分割
+.post-pages {
+ text-align: center;
+ padding: 20px;
+}
+.post-page-numbers {
+  padding: 5px 7px;
+}
+.post-page-numbers.current {
+  color: #ffffff;
+  background-color: #3c2b1c;
+}

diff --git a/css/common.css b/css/common.css
@@ -337,6 +337,20 @@ li {
   font-size: 2rem;
 }
 
+.post-pages {
+  text-align: center;
+  padding: 20px;
+}
+
+.post-page-numbers {
+  padding: 5px 7px;
+}
+
+.post-page-numbers.current {
+  color: #ffffff;
+  background-color: #3c2b1c;
+}
+
 .p-introduction h2.wp-block-heading {
   font-size: 2.8rem;
   font-family: "M PLUS 1", sans-serif;

diff --git a/functions.php b/functions.php
@@ -1,6 +1,7 @@
 <?php
     add_theme_support( 'html5', array( 'comment-list', 'comment-form', 'search-form', 'gallery', 'caption', 'style', 'script' ) );
-    add_theme_support( 'menus' ); 
+    register_nav_menus();
+    //add_theme_support( 'menus' ); 
     add_theme_support( 'title-tag' );
     add_theme_support( 'post-thumbnails' ); 
 
@@ -27,7 +28,7 @@ function add_files(){
     wp_enqueue_style('my_font2','https://fonts.gstatic.com',array(), '1.0.0' );
     wp_enqueue_style('my_font2','https://fonts.googleapis.com/css2?family=M+PLUS+1&family=Roboto&display=swap',array(), '1.0.0' );
     //FontAwesome
-    wp_enqueue_script('fontawesome_script', 'https://kit.fontawesome.com/92cec73944.js'); 
+    wp_enqueue_script('fontawesome_script', 'https://kit.fontawesome.com/92cec73944.js' , '6'); 
     //メインのCSSファイル
     wp_enqueue_style('my_style',DIRE.'/css/common.css',array(), '1.0.0' );
     //JavaScriptファイル

diff --git a/single.php b/single.php
@@ -28,6 +28,11 @@
               <div id="post-<?php the_ID(); ?>" <?php post_class(); ?> >
                 <?php the_content(); ?>
               </div>
+              <?php   wp_link_pages( array(
+                'before'    => '<div class="post-pages">ページ：',
+                'after'     => '</div>',
+                'separator' => ' &bull; ',
+              ) );  ?>
               <?php endwhile; else :?>
               <p>表示する記事がありません</p>
               <?php endif;?>

diff --git a/searchform.php b/searchform.php
@@ -1,4 +1,4 @@
-<form method="get" action="<?php echo home_url('/'); ?>" class="p-search-box" id="searchform">
+<form method="get" action="<?php echo esc_url(home_url('/')); ?>" class="p-search-box" id="searchform">
   <div class="p-search-box__text">
     <input class="c-input-text" type="text" placeholder="キーワード" value="<?php the_search_query(); ?>" size="20" name="s" id="s"/>
     <i class="c-icon--loupe"></i>

diff --git a/404.php b/404.php
@@ -13,7 +13,7 @@
       <span class="error_msg">
       http://<?php echo esc_html($_SERVER['SERVER_NAME'].$_SERVER['REQUEST_URI']); ?>
       </span></p>
-      <p class="c-button__home"><a href="<?php echo home_url(); ?>">HOME</a></p>
+      <p class="c-button__home"><a href="<?php echo esc_url(home_url()); ?>">HOME</a></p>
       </div>
       </div>
       <!--l-left-sideのdiv-->

diff --git a/header.php b/header.php
@@ -1,5 +1,5 @@
 <!DOCTYPE html>
-<html lang="ja">
+<html <?php language_attributes(); ?>>
   <head>
     <meta charset="utf-8" />
     <meta name="viewport" content="width=device-width,initial-scale=1" />
